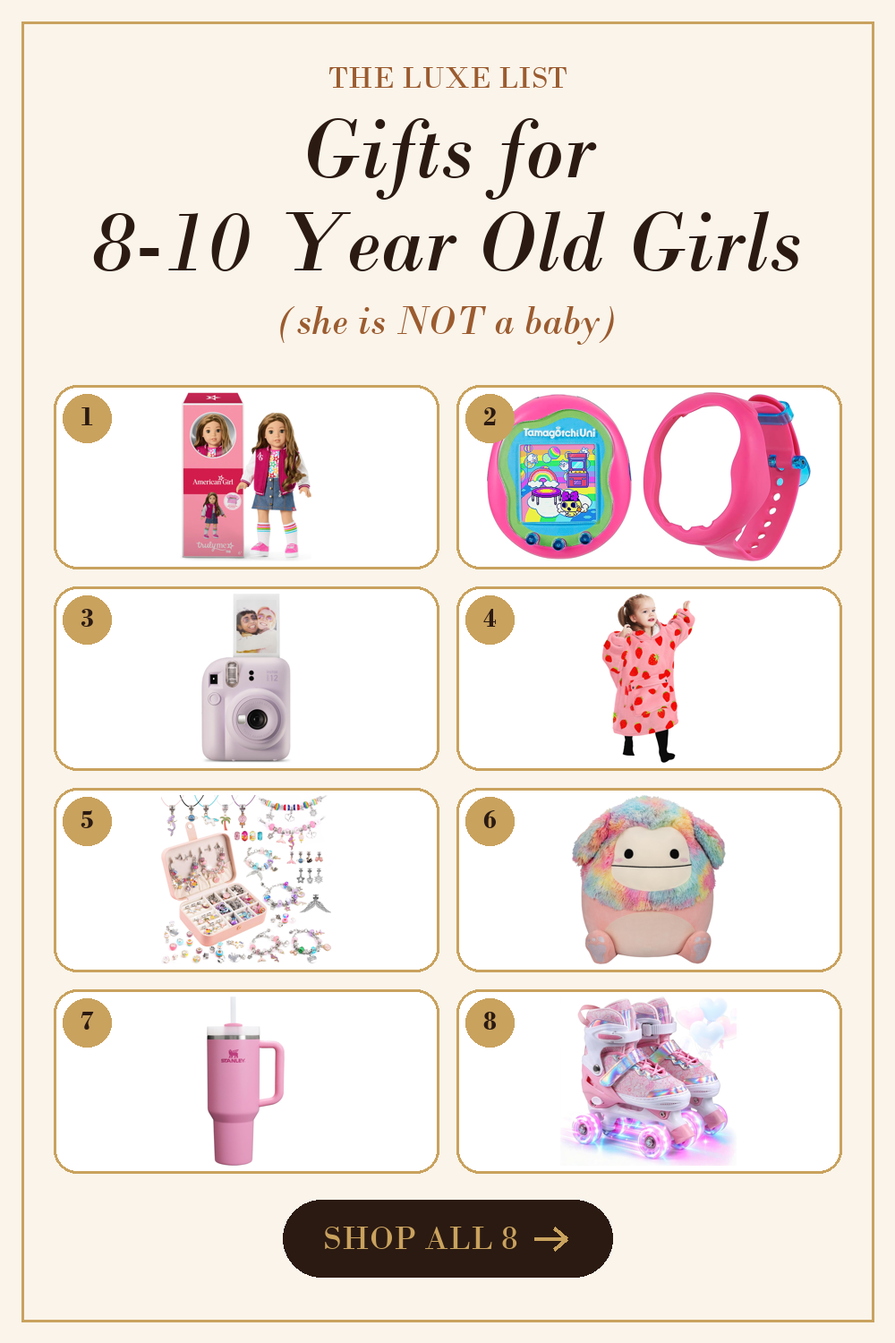
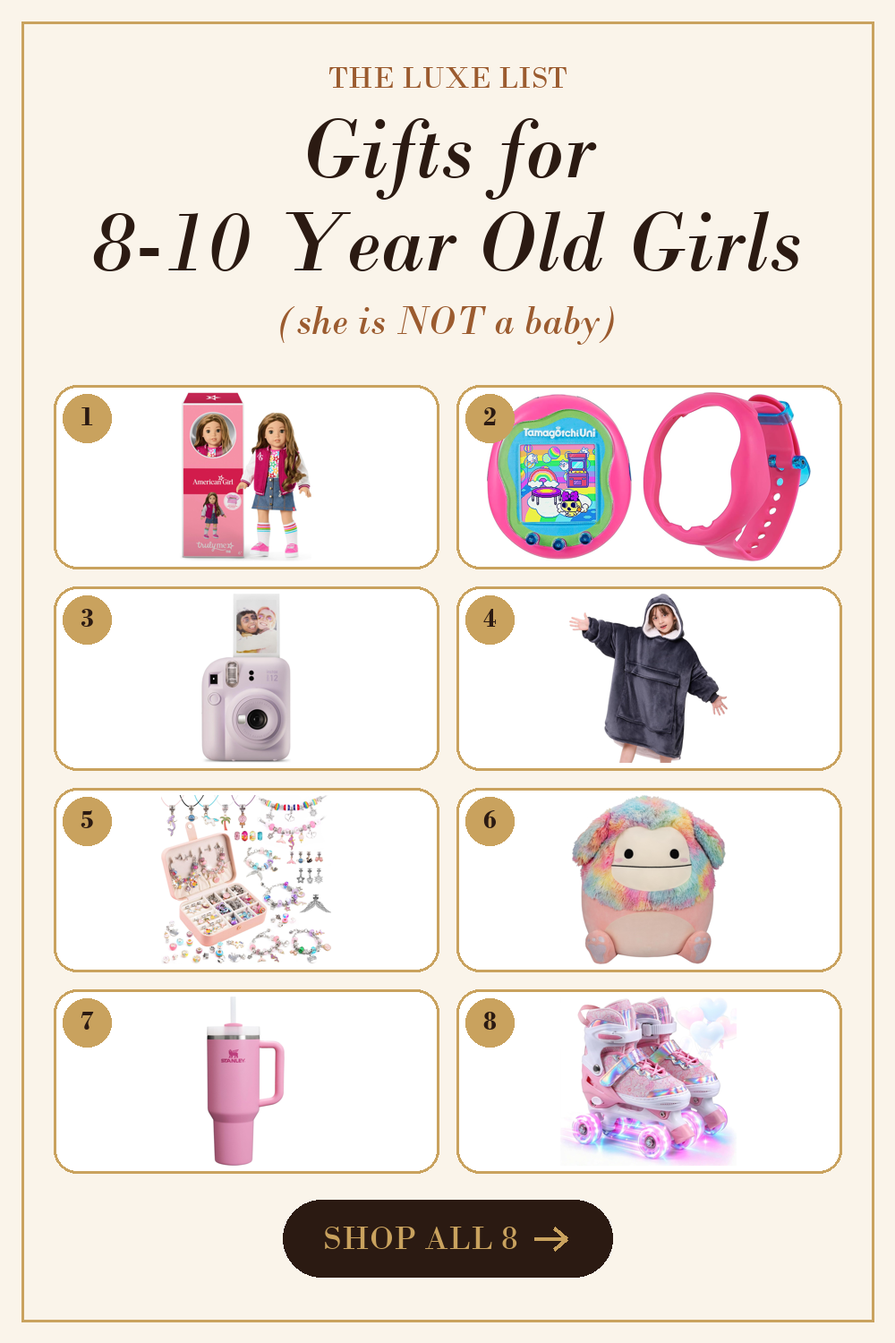
Swap 8-10 blanket hoodie for yescool (ages 8-15) and regenerate pins

Changed region(s): [[0.62, 0.4293, 0.806, 0.5827]]

diff --git a/blog/gifts-for-8-10-year-old-girls.html b/blog/gifts-for-8-10-year-old-girls.html
@@ -1,1 +1,1 @@
-<!doctype html><html lang="en"><head><meta name="p:domain_verify" content="d852d5229a38dea863881f54dfc11f45"/><meta charset="utf-8"><meta name="viewport" content="width=device-width,initial-scale=1"><title>Gifts for 8-10 Year Old Girls: 8 Picks Tweens Will Actually Love | Looks Like Luxe</title><meta name="description" content="Gifts for 8 to 10 year old girls that are anything but babyish: an instant camera, a Tamagotchi, a Stanley, a doll with a whole personality, and more."><link rel="canonical" href="https://lookslikeluxe.netlify.app/blog/gifts-for-8-10-year-old-girls.html"><meta property="og:title" content="Gifts for 8-10 Year Old Girls: 8 Picks Tweens Will Actually Love | Looks Like Luxe"><meta property="og:description" content="Gifts for 8 to 10 year old girls that are anything but babyish: an instant camera, a Tamagotchi, a Stanley, a doll with a whole personality, and more."><meta property="og:type" content="article"><meta property="og:image" content="https://lookslikeluxe.netlify.app/pins/gifts-for-8-10-year-old-girls-v1-grid.png"><link rel="preconnect" href="https://fonts.googleapis.com"><link rel="preconnect" href="https://fonts.gstatic.com" crossorigin><link href="https://fonts.googleapis.com/css2?family=Cormorant+Garamond:ital,wght@0,400;0,600;1,400&family=Montserrat:wght@500;600&family=Playfair+Display:ital,wght@0,500;1,500&display=swap" rel="stylesheet"><link rel="stylesheet" href="/blog.css"></head><body class="blog"><div class="b-disc">As an Amazon Associate I earn from qualifying purchases.</div><header class="b-nav"><a class="b-brand" href="/">Looks Like <em>Luxe</em></a><nav><a href="/blog/">The Edit</a><a href="/l/gifts-for-her">Gifts</a><a href="/index.html#signup">Free Guide</a></nav></header><section class="b-hero"><div class="b-kicker">The Gift Edit</div><h1>Gifts for 8-10 Year Old Girls (She Is Not a Baby, Thank You)</h1><div class="b-rule"></div><div class="b-by">By Looks Like Luxe &nbsp;&middot;&nbsp; October 5, 2026 &nbsp;&middot;&nbsp; 5 min read</div></section><main class="b-wrap"><div class="b-note"><strong>Affiliate disclosure:</strong> As an Amazon Associate I earn from qualifying purchases, which means if you tap a link and buy, I may earn a small commission at no extra cost to you. Prices and availability live on Amazon.</div><div class="b-intro"><p>Let&#x27;s address the elephant in the room. Between the ages of eight and ten, a girl becomes too old for toys and too young for a credit card, and she will tell you this, with eye contact.</p><p>She has opinions. She has a Pinterest board in her head. She has a very specific idea of what is &quot;cringe&quot; and you will not be told in advance. Buy the wrong thing and you will be gently, devastatingly, ignored.</p><p>So I did what I do. I went through Amazon with a glass of something cold and the energy of a woman who has been to a tween&#x27;s birthday party. Eight gifts. No babyish nonsense. Every one has real reviews and a rating of 4.4 stars or higher at the time I checked, and a few of them are things I would absolutely put in my own cart.</p><p>Tweens, parents, aunts, godmothers, step-anything: this one&#x27;s for you.</p></div><div class="b-sep">&#9830; &#9830; &#9830;</div><article class="b-prod"><p class="b-num">01</p><h2>American Girl Truly Me 18-inch Doll</h2><span class="b-best">Best for: The girl who has a name picked out for her future dog</span><a class="b-photo" href="https://www.amazon.com/dp/B0DR3L8HY8?tag=lookslikeluxe-20" target="_blank" rel="sponsored nofollow noopener"><img src="/images/blog/gifts-8-10/01-american-girl.jpg" alt="American Girl Truly Me 18-inch Doll" loading="lazy"></a><p>Some gifts are toys. This is a legacy item. An 18-inch doll with a personality, an outfit, and the quiet confidence of someone who has never once rushed anywhere.</p><p>The Truly Me line lets her pick a doll that looks like her, which is the most flattering thing you can do for a nine-year-old. She will name her, dress her, and introduce her at dinner.</p><p>Verdict: the gift that gets a full-blown storyline. Brace yourself for a very long play-by-play.</p><a class="b-btn" href="https://www.amazon.com/dp/B0DR3L8HY8?tag=lookslikeluxe-20" target="_blank" rel="sponsored nofollow noopener">Shop on Amazon</a></article><article class="b-prod"><p class="b-num">02</p><h2>Tamagotchi Uni (Pink)</h2><span class="b-best">Best for: The girl with big responsibility energy and zero actual pets</span><a class="b-photo" href="https://www.amazon.com/dp/B0C6RK9YR6?tag=lookslikeluxe-20" target="_blank" rel="sponsored nofollow noopener"><img src="/images/blog/gifts-8-10/02-tamagotchi.jpg" alt="Tamagotchi Uni (Pink)" loading="lazy"></a><p>Yes, THAT Tamagotchi. The one from your childhood. It came back, it got a glow-up, and now it connects to wifi, because of course it does.</p><p>It&#x27;s a little digital pet she has to feed and look after, which means she gets all the joy of a puppy and none of the carpet damage. You, on the other hand, may find yourself asking how her little guy is doing.</p><p>Verdict: nostalgia you can gift. Prepare to be asked for batteries at 6 a.m.</p><a class="b-btn" href="https://www.amazon.com/dp/B0C6RK9YR6?tag=lookslikeluxe-20" target="_blank" rel="sponsored nofollow noopener">Shop on Amazon</a></article><article class="b-prod"><p class="b-num">03</p><h2>Fujifilm Instax Mini 12 Instant Camera, Lilac Purple</h2><span class="b-best">Best for: The future influencer who already has an angle</span><a class="b-photo" href="https://www.amazon.com/dp/B0BWNYPCT1?tag=lookslikeluxe-20" target="_blank" rel="sponsored nofollow noopener"><img src="/images/blog/gifts-8-10/03-instax.jpg" alt="Fujifilm Instax Mini 12 Instant Camera, Lilac Purple" loading="lazy"></a><p>An instant camera, in lilac, because we are not savages. She takes the photo, it prints, she tapes it to her wall. No phone required, which is a plot twist for her generation.</p><p>Photos you can actually hold feel a little bit magical now. It&#x27;s the gift that turns every sleepover into a content moment and every bedroom wall into a gallery.</p><p>Verdict: her best friends will be jealous. Her mother will be thrilled that it isn&#x27;t a phone.</p><a class="b-btn" href="https://www.amazon.com/dp/B0BWNYPCT1?tag=lookslikeluxe-20" target="_blank" rel="sponsored nofollow noopener">Shop on Amazon</a></article><div class="b-quote"><p>&ldquo;Tweens can smell a babyish gift from across the room. Act accordingly.&rdquo;</p></div><article class="b-prod"><p class="b-num">04</p><h2>KFUBUO Wearable Blanket Hoodie for Kids</h2><span class="b-best">Best for: The cold-blooded tween who lives under a duvet</span><a class="b-photo" href="https://www.amazon.com/dp/B0B5R12GQH?tag=lookslikeluxe-20" target="_blank" rel="sponsored nofollow noopener"><img src="/images/blog/gifts-8-10/04-blanket-hoodie.jpg" alt="KFUBUO Wearable Blanket Hoodie for Kids" loading="lazy"></a><p>It&#x27;s a blanket. It&#x27;s also a hoodie. It&#x27;s the answer to every &quot;I&#x27;m freeeezing&quot; in your household.</p><p>Oversized, cozy, and acceptable for wearing to the movies, to a sleepover, and straight into the kitchen at 10 a.m. on a Saturday. Parents love it. Tweens love it. Nobody has to negotiate.</p><p>Verdict: the rare gift that is both a hug and a fashion statement.</p><a class="b-btn" href="https://www.amazon.com/dp/B0B5R12GQH?tag=lookslikeluxe-20" target="_blank" rel="sponsored nofollow noopener">Shop on Amazon</a></article><article class="b-prod"><p class="b-num">05</p><h2>UFU Charm Bracelet Making Kit, 120 Pieces</h2><span class="b-best">Best for: The friendship-bracelet CEO of the fourth grade</span><a class="b-photo" href="https://www.amazon.com/dp/B0C5X72FHY?tag=lookslikeluxe-20" target="_blank" rel="sponsored nofollow noopener"><img src="/images/blog/gifts-8-10/05-charm-bracelet.jpg" alt="UFU Charm Bracelet Making Kit, 120 Pieces" loading="lazy"></a><p>Tweens trade bracelets the way the rest of us trade stocks. This kit has 120 pieces, which means she can make one for every friend and still have inventory.</p><p>It&#x27;s craft time with actual jewelry at the end of it. She gets to be creative, she gets to give gifts, and you get an hour of peace.</p><p>Verdict: the most efficient friendship-based economy ever created.</p><a class="b-btn" href="https://www.amazon.com/dp/B0C5X72FHY?tag=lookslikeluxe-20" target="_blank" rel="sponsored nofollow noopener">Shop on Amazon</a></article><article class="b-prod"><p class="b-num">06</p><h2>Squishmallows 20-Inch Diane Peach Bigfoot Plush</h2><span class="b-best">Best for: The tween who says she&#x27;s too old for plush and sleeps with three</span><a class="b-photo" href="https://www.amazon.com/dp/B0B25PQKNZ?tag=lookslikeluxe-20" target="_blank" rel="sponsored nofollow noopener"><img src="/images/blog/gifts-8-10/06-squishmallow.jpg" alt="Squishmallows 20-Inch Diane Peach Bigfoot Plush" loading="lazy"></a><p>She&#x27;ll say she&#x27;s too old for stuffed animals. Then she&#x27;ll sleep with this one every night. A twenty-inch peach Bigfoot is not a toy, it&#x27;s a roommate.</p><p>Squishmallows are the one plush that tweens will actually admit to loving. It&#x27;s soft, it&#x27;s oversized, and it makes every bedroom look like a very cozy hotel.</p><p>Verdict: big, soft, and extremely photogenic. The ultimate pillow upgrade.</p><a class="b-btn" href="https://www.amazon.com/dp/B0B25PQKNZ?tag=lookslikeluxe-20" target="_blank" rel="sponsored nofollow noopener">Shop on Amazon</a></article><div class="b-quote"><p>&ldquo;The best gift is the one she doesn&#x27;t have to pretend to like.&rdquo;</p></div><article class="b-prod"><p class="b-num">07</p><h2>STANLEY Quencher H2.0 FlowState Tumbler, 40 oz</h2><span class="b-best">Best for: The girl who knows exactly which cup is the cup</span><a class="b-photo" href="https://www.amazon.com/dp/B0CRMP3RQT?tag=lookslikeluxe-20" target="_blank" rel="sponsored nofollow noopener"><img src="/images/blog/gifts-8-10/07-stanley.jpg" alt="STANLEY Quencher H2.0 FlowState Tumbler, 40 oz" loading="lazy"></a><p>Listen. Whatever your opinion of the Stanley craze, a nine-year-old with a Quencher feels like she has arrived at a very important brunch.</p><p>It keeps drinks cold, it holds a lot of water, and it fits in a car cupholder. It&#x27;s also the only way you&#x27;re getting her to drink eight glasses of water a day.</p><p>Verdict: a status symbol that is actually useful. We stan.</p><a class="b-btn" href="https://www.amazon.com/dp/B0CRMP3RQT?tag=lookslikeluxe-20" target="_blank" rel="sponsored nofollow noopener">Shop on Amazon</a></article><article class="b-prod"><p class="b-num">08</p><h2>HUANOVIX Adjustable Kids Roller Skates for Girls</h2><span class="b-best">Best for: The girl who has watched too many roller rink videos</span><a class="b-photo" href="https://www.amazon.com/dp/B0FRMDKTN3?tag=lookslikeluxe-20" target="_blank" rel="sponsored nofollow noopener"><img src="/images/blog/gifts-8-10/08-roller-skates.jpg" alt="HUANOVIX Adjustable Kids Roller Skates for Girls" loading="lazy"></a><p>Adjustable roller skates, because her feet are growing faster than your patience. She&#x27;ll glide down the sidewalk like she&#x27;s in a music video.</p><p>Pair them with a helmet and knee pads and she&#x27;ll be the most confident person on the block. It also gets her outside, which is the real gift.</p><p>Verdict: motion, joy, and a very dramatic exit every time she leaves the house.</p><a class="b-btn" href="https://www.amazon.com/dp/B0FRMDKTN3?tag=lookslikeluxe-20" target="_blank" rel="sponsored nofollow noopener">Shop on Amazon</a></article><div class="b-sep">&#9830; &#9830; &#9830;</div><div class="b-outro"><p>And that&#x27;s the list: eight gifts, zero eye-rolls, and a reputation as the cool aunt (or the cool mom, or the cool whatever you are).</p><p>If you take one thing from this guide, let it be this. The best gift for an eight to ten year old girl treats her like the person she&#x27;s about to become, not the baby she used to be. Give her something with a little bit of grown-up energy and she&#x27;ll never forget it.</p><p>Until the next gift emergency, darling.</p><div class="b-sign">xx, Looks Like Luxe</div></div><section class="b-signup"><h2>Get The Luxe Gift Vault, free</h2><p>A printable holiday gift planner plus 25 gifts that look like you spent way more, and one fun email a week. Zero spam. Zero sad candles.</p><div class="form"><iframe src="https://api.leadconnectorhq.com/widget/form/gsRUZDDIsJEpAF1ZlzP9" style="width:100%;height:100%;border:none;border-radius:8px" id="inline-gsRUZDDIsJEpAF1ZlzP9" data-layout="{'id':'INLINE'}" data-trigger-type="alwaysShow" data-trigger-value="" data-activation-type="alwaysActivated" data-activation-value="" data-deactivation-type="neverDeactivate" data-deactivation-value="" data-form-name="Gift Guide Signup Form" data-height="434" data-layout-iframe-id="inline-gsRUZDDIsJEpAF1ZlzP9" data-form-id="gsRUZDDIsJEpAF1ZlzP9" data-cookie-consent="true" data-cookie-consent-provider="auto" title="Gift Guide Signup Form"></iframe><script src="https://link.msgsndr.com/js/form_embed.js"></script></div></section><section class="b-related"><h3>Keep reading</h3><a href="/blog/gifts-for-5-year-old-girls.html">Gifts for 5-Year-Old Girls: Wait, They Make THIS?!</a><a href="/l/gifts-for-her">Gifts for Her That Look Way More Expensive Than They Are</a><a href="/index.html#signup">The Luxe Gift Vault (free)</a></section></main><footer class="b-foot">&copy; Looks Like Luxe &middot; Rich-girl taste, real-girl budget.<br>As an Amazon Associate I earn from qualifying purchases. Prices and availability are shown on Amazon. Product names are trademarks of their owners.<br><a href="/privacy.html">Privacy &amp; disclosure</a></footer></body></html>
+<!doctype html><html lang="en"><head><meta name="p:domain_verify" content="d852d5229a38dea863881f54dfc11f45"/><meta charset="utf-8"><meta name="viewport" content="width=device-width,initial-scale=1"><title>Gifts for 8-10 Year Old Girls: 8 Picks Tweens Will Actually Love | Looks Like Luxe</title><meta name="description" content="Gifts for 8 to 10 year old girls that are anything but babyish: an instant camera, a Tamagotchi, a Stanley, a doll with a whole personality, and more."><link rel="canonical" href="https://lookslikeluxe.netlify.app/blog/gifts-for-8-10-year-old-girls.html"><meta property="og:title" content="Gifts for 8-10 Year Old Girls: 8 Picks Tweens Will Actually Love | Looks Like Luxe"><meta property="og:description" content="Gifts for 8 to 10 year old girls that are anything but babyish: an instant camera, a Tamagotchi, a Stanley, a doll with a whole personality, and more."><meta property="og:type" content="article"><meta property="og:image" content="https://lookslikeluxe.netlify.app/pins/gifts-for-8-10-year-old-girls-v1-grid.png"><link rel="preconnect" href="https://fonts.googleapis.com"><link rel="preconnect" href="https://fonts.gstatic.com" crossorigin><link href="https://fonts.googleapis.com/css2?family=Cormorant+Garamond:ital,wght@0,400;0,600;1,400&family=Montserrat:wght@500;600&family=Playfair+Display:ital,wght@0,500;1,500&display=swap" rel="stylesheet"><link rel="stylesheet" href="/blog.css"></head><body class="blog"><div class="b-disc">As an Amazon Associate I earn from qualifying purchases.</div><header class="b-nav"><a class="b-brand" href="/">Looks Like <em>Luxe</em></a><nav><a href="/blog/">The Edit</a><a href="/l/gifts-for-her">Gifts</a><a href="/index.html#signup">Free Guide</a></nav></header><section class="b-hero"><div class="b-kicker">The Gift Edit</div><h1>Gifts for 8-10 Year Old Girls (She Is Not a Baby, Thank You)</h1><div class="b-rule"></div><div class="b-by">By Looks Like Luxe &nbsp;&middot;&nbsp; October 5, 2026 &nbsp;&middot;&nbsp; 5 min read</div></section><main class="b-wrap"><div class="b-note"><strong>Affiliate disclosure:</strong> As an Amazon Associate I earn from qualifying purchases, which means if you tap a link and buy, I may earn a small commission at no extra cost to you. Prices and availability live on Amazon.</div><div class="b-intro"><p>Let&#x27;s address the elephant in the room. Between the ages of eight and ten, a girl becomes too old for toys and too young for a credit card, and she will tell you this, with eye contact.</p><p>She has opinions. She has a Pinterest board in her head. She has a very specific idea of what is &quot;cringe&quot; and you will not be told in advance. Buy the wrong thing and you will be gently, devastatingly, ignored.</p><p>So I did what I do. I went through Amazon with a glass of something cold and the energy of a woman who has been to a tween&#x27;s birthday party. Eight gifts. No babyish nonsense. Every one has real reviews and a rating of 4.4 stars or higher at the time I checked, and a few of them are things I would absolutely put in my own cart.</p><p>Tweens, parents, aunts, godmothers, step-anything: this one&#x27;s for you.</p></div><div class="b-sep">&#9830; &#9830; &#9830;</div><article class="b-prod"><p class="b-num">01</p><h2>American Girl Truly Me 18-inch Doll</h2><span class="b-best">Best for: The girl who has a name picked out for her future dog</span><a class="b-photo" href="https://www.amazon.com/dp/B0DR3L8HY8?tag=lookslikeluxe-20" target="_blank" rel="sponsored nofollow noopener"><img src="/images/blog/gifts-8-10/01-american-girl.jpg" alt="American Girl Truly Me 18-inch Doll" loading="lazy"></a><p>Some gifts are toys. This is a legacy item. An 18-inch doll with a personality, an outfit, and the quiet confidence of someone who has never once rushed anywhere.</p><p>The Truly Me line lets her pick a doll that looks like her, which is the most flattering thing you can do for a nine-year-old. She will name her, dress her, and introduce her at dinner.</p><p>Verdict: the gift that gets a full-blown storyline. Brace yourself for a very long play-by-play.</p><a class="b-btn" href="https://www.amazon.com/dp/B0DR3L8HY8?tag=lookslikeluxe-20" target="_blank" rel="sponsored nofollow noopener">Shop on Amazon</a></article><article class="b-prod"><p class="b-num">02</p><h2>Tamagotchi Uni (Pink)</h2><span class="b-best">Best for: The girl with big responsibility energy and zero actual pets</span><a class="b-photo" href="https://www.amazon.com/dp/B0C6RK9YR6?tag=lookslikeluxe-20" target="_blank" rel="sponsored nofollow noopener"><img src="/images/blog/gifts-8-10/02-tamagotchi.jpg" alt="Tamagotchi Uni (Pink)" loading="lazy"></a><p>Yes, THAT Tamagotchi. The one from your childhood. It came back, it got a glow-up, and now it connects to wifi, because of course it does.</p><p>It&#x27;s a little digital pet she has to feed and look after, which means she gets all the joy of a puppy and none of the carpet damage. You, on the other hand, may find yourself asking how her little guy is doing.</p><p>Verdict: nostalgia you can gift. Prepare to be asked for batteries at 6 a.m.</p><a class="b-btn" href="https://www.amazon.com/dp/B0C6RK9YR6?tag=lookslikeluxe-20" target="_blank" rel="sponsored nofollow noopener">Shop on Amazon</a></article><article class="b-prod"><p class="b-num">03</p><h2>Fujifilm Instax Mini 12 Instant Camera, Lilac Purple</h2><span class="b-best">Best for: The future influencer who already has an angle</span><a class="b-photo" href="https://www.amazon.com/dp/B0BWNYPCT1?tag=lookslikeluxe-20" target="_blank" rel="sponsored nofollow noopener"><img src="/images/blog/gifts-8-10/03-instax.jpg" alt="Fujifilm Instax Mini 12 Instant Camera, Lilac Purple" loading="lazy"></a><p>An instant camera, in lilac, because we are not savages. She takes the photo, it prints, she tapes it to her wall. No phone required, which is a plot twist for her generation.</p><p>Photos you can actually hold feel a little bit magical now. It&#x27;s the gift that turns every sleepover into a content moment and every bedroom wall into a gallery.</p><p>Verdict: her best friends will be jealous. Her mother will be thrilled that it isn&#x27;t a phone.</p><a class="b-btn" href="https://www.amazon.com/dp/B0BWNYPCT1?tag=lookslikeluxe-20" target="_blank" rel="sponsored nofollow noopener">Shop on Amazon</a></article><div class="b-quote"><p>&ldquo;Tweens can smell a babyish gift from across the room. Act accordingly.&rdquo;</p></div><article class="b-prod"><p class="b-num">04</p><h2>yescool Wearable Blanket Hoodie (Teen and Kids)</h2><span class="b-best">Best for: The cold-blooded tween who lives under a duvet</span><a class="b-photo" href="https://www.amazon.com/dp/B097F2NKCT?tag=lookslikeluxe-20" target="_blank" rel="sponsored nofollow noopener"><img src="/images/blog/gifts-8-10/04-blanket-hoodie.jpg" alt="yescool Wearable Blanket Hoodie (Teen and Kids)" loading="lazy"></a><p>It&#x27;s a blanket. It&#x27;s also a hoodie. It&#x27;s the answer to every &quot;I&#x27;m freeeezing&quot; in your household.</p><p>Oversized, cozy, and acceptable for wearing to the movies, to a sleepover, and straight into the kitchen at 10 a.m. on a Saturday. Parents love it. Tweens love it. Nobody has to negotiate.</p><p>Verdict: the rare gift that is both a hug and a fashion statement.</p><a class="b-btn" href="https://www.amazon.com/dp/B097F2NKCT?tag=lookslikeluxe-20" target="_blank" rel="sponsored nofollow noopener">Shop on Amazon</a></article><article class="b-prod"><p class="b-num">05</p><h2>UFU Charm Bracelet Making Kit, 120 Pieces</h2><span class="b-best">Best for: The friendship-bracelet CEO of the fourth grade</span><a class="b-photo" href="https://www.amazon.com/dp/B0C5X72FHY?tag=lookslikeluxe-20" target="_blank" rel="sponsored nofollow noopener"><img src="/images/blog/gifts-8-10/05-charm-bracelet.jpg" alt="UFU Charm Bracelet Making Kit, 120 Pieces" loading="lazy"></a><p>Tweens trade bracelets the way the rest of us trade stocks. This kit has 120 pieces, which means she can make one for every friend and still have inventory.</p><p>It&#x27;s craft time with actual jewelry at the end of it. She gets to be creative, she gets to give gifts, and you get an hour of peace.</p><p>Verdict: the most efficient friendship-based economy ever created.</p><a class="b-btn" href="https://www.amazon.com/dp/B0C5X72FHY?tag=lookslikeluxe-20" target="_blank" rel="sponsored nofollow noopener">Shop on Amazon</a></article><article class="b-prod"><p class="b-num">06</p><h2>Squishmallows 20-Inch Diane Peach Bigfoot Plush</h2><span class="b-best">Best for: The tween who says she&#x27;s too old for plush and sleeps with three</span><a class="b-photo" href="https://www.amazon.com/dp/B0B25PQKNZ?tag=lookslikeluxe-20" target="_blank" rel="sponsored nofollow noopener"><img src="/images/blog/gifts-8-10/06-squishmallow.jpg" alt="Squishmallows 20-Inch Diane Peach Bigfoot Plush" loading="lazy"></a><p>She&#x27;ll say she&#x27;s too old for stuffed animals. Then she&#x27;ll sleep with this one every night. A twenty-inch peach Bigfoot is not a toy, it&#x27;s a roommate.</p><p>Squishmallows are the one plush that tweens will actually admit to loving. It&#x27;s soft, it&#x27;s oversized, and it makes every bedroom look like a very cozy hotel.</p><p>Verdict: big, soft, and extremely photogenic. The ultimate pillow upgrade.</p><a class="b-btn" href="https://www.amazon.com/dp/B0B25PQKNZ?tag=lookslikeluxe-20" target="_blank" rel="sponsored nofollow noopener">Shop on Amazon</a></article><div class="b-quote"><p>&ldquo;The best gift is the one she doesn&#x27;t have to pretend to like.&rdquo;</p></div><article class="b-prod"><p class="b-num">07</p><h2>STANLEY Quencher H2.0 FlowState Tumbler, 40 oz</h2><span class="b-best">Best for: The girl who knows exactly which cup is the cup</span><a class="b-photo" href="https://www.amazon.com/dp/B0CRMP3RQT?tag=lookslikeluxe-20" target="_blank" rel="sponsored nofollow noopener"><img src="/images/blog/gifts-8-10/07-stanley.jpg" alt="STANLEY Quencher H2.0 FlowState Tumbler, 40 oz" loading="lazy"></a><p>Listen. Whatever your opinion of the Stanley craze, a nine-year-old with a Quencher feels like she has arrived at a very important brunch.</p><p>It keeps drinks cold, it holds a lot of water, and it fits in a car cupholder. It&#x27;s also the only way you&#x27;re getting her to drink eight glasses of water a day.</p><p>Verdict: a status symbol that is actually useful. We stan.</p><a class="b-btn" href="https://www.amazon.com/dp/B0CRMP3RQT?tag=lookslikeluxe-20" target="_blank" rel="sponsored nofollow noopener">Shop on Amazon</a></article><article class="b-prod"><p class="b-num">08</p><h2>HUANOVIX Adjustable Kids Roller Skates for Girls</h2><span class="b-best">Best for: The girl who has watched too many roller rink videos</span><a class="b-photo" href="https://www.amazon.com/dp/B0FRMDKTN3?tag=lookslikeluxe-20" target="_blank" rel="sponsored nofollow noopener"><img src="/images/blog/gifts-8-10/08-roller-skates.jpg" alt="HUANOVIX Adjustable Kids Roller Skates for Girls" loading="lazy"></a><p>Adjustable roller skates, because her feet are growing faster than your patience. She&#x27;ll glide down the sidewalk like she&#x27;s in a music video.</p><p>Pair them with a helmet and knee pads and she&#x27;ll be the most confident person on the block. It also gets her outside, which is the real gift.</p><p>Verdict: motion, joy, and a very dramatic exit every time she leaves the house.</p><a class="b-btn" href="https://www.amazon.com/dp/B0FRMDKTN3?tag=lookslikeluxe-20" target="_blank" rel="sponsored nofollow noopener">Shop on Amazon</a></article><div class="b-sep">&#9830; &#9830; &#9830;</div><div class="b-outro"><p>And that&#x27;s the list: eight gifts, zero eye-rolls, and a reputation as the cool aunt (or the cool mom, or the cool whatever you are).</p><p>If you take one thing from this guide, let it be this. The best gift for an eight to ten year old girl treats her like the person she&#x27;s about to become, not the baby she used to be. Give her something with a little bit of grown-up energy and she&#x27;ll never forget it.</p><p>Until the next gift emergency, darling.</p><div class="b-sign">xx, Looks Like Luxe</div></div><section class="b-signup"><h2>Get The Luxe Gift Vault, free</h2><p>A printable holiday gift planner plus 25 gifts that look like you spent way more, and one fun email a week. Zero spam. Zero sad candles.</p><div class="form"><iframe src="https://api.leadconnectorhq.com/widget/form/gsRUZDDIsJEpAF1ZlzP9" style="width:100%;height:100%;border:none;border-radius:8px" id="inline-gsRUZDDIsJEpAF1ZlzP9" data-layout="{'id':'INLINE'}" data-trigger-type="alwaysShow" data-trigger-value="" data-activation-type="alwaysActivated" data-activation-value="" data-deactivation-type="neverDeactivate" data-deactivation-value="" data-form-name="Gift Guide Signup Form" data-height="434" data-layout-iframe-id="inline-gsRUZDDIsJEpAF1ZlzP9" data-form-id="gsRUZDDIsJEpAF1ZlzP9" data-cookie-consent="true" data-cookie-consent-provider="auto" title="Gift Guide Signup Form"></iframe><script src="https://link.msgsndr.com/js/form_embed.js"></script></div></section><section class="b-related"><h3>Keep reading</h3><a href="/blog/gifts-for-5-year-old-girls.html">Gifts for 5-Year-Old Girls: Wait, They Make THIS?!</a><a href="/l/gifts-for-her">Gifts for Her That Look Way More Expensive Than They Are</a><a href="/index.html#signup">The Luxe Gift Vault (free)</a></section></main><footer class="b-foot">&copy; Looks Like Luxe &middot; Rich-girl taste, real-girl budget.<br>As an Amazon Associate I earn from qualifying purchases. Prices and availability are shown on Amazon. Product names are trademarks of their owners.<br><a href="/privacy.html">Privacy &amp; disclosure</a></footer></body></html>
